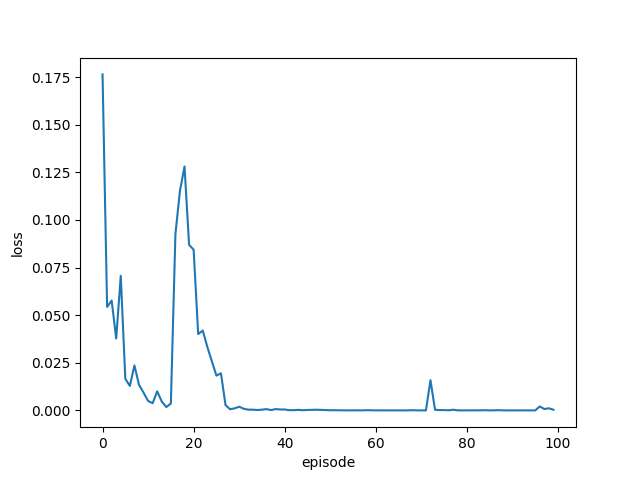
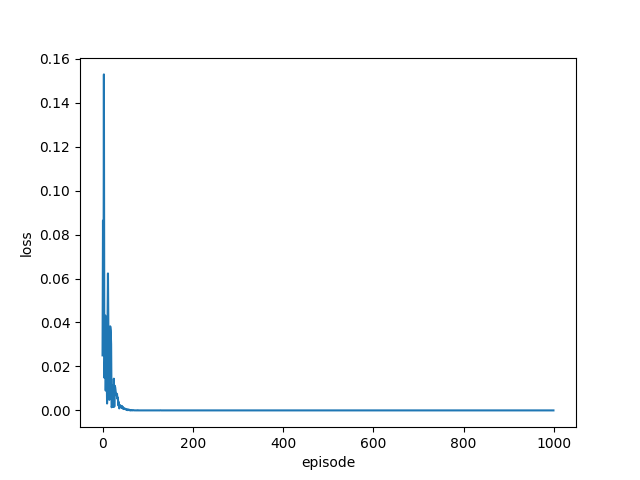
Book #4: learn only from episodes in few steps

diff --git a/book_4/ch07/q_learning_nn.py b/book_4/ch07/q_learning_nn.py
@@ -132,7 +132,7 @@ class QLearningAgent:
 env = GridWorld()
 agent = QLearningAgent()
 
-episodes = 100  # Num of episodes
+episodes = 1000  # Num of episodes
 loss_history = []
 
 for episode in range(episodes):
@@ -147,10 +147,20 @@ for episode in range(episodes):
         next_state, reward, done = env.step(action)
         next_state = one_hot(next_state)
 
-        loss = agent.update(state, action, reward, next_state, done)
-        total_loss += loss
         cnt += 1
+
+        # Retry the episode when it takes over 100 steps
+        if cnt >= 100 and not done:
+            env.reset()
+            cnt = 0
+
         state = next_state
+
+    # Learn only from the finished episode
+    loss = agent.update(state, action, reward, next_state, done)
+    total_loss += loss
+
+    # print(f"episode {episode}, count={cnt}, loss={loss}")
 
     average_loss = total_loss / cnt
     loss_history.append(average_loss)
